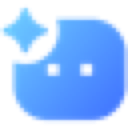
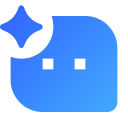
chore: 准备 1.0.0 上架
- 更换插件图标
- 插件名追加功能描述（AI Chat TOC - AI 对话目录导航）
- 版本号 1.9 → 1.0.0
- 描述精简至 108 字符（Web Store 上限 132）
- 清理生产 console.log

diff --git a/content.js b/content.js
@@ -66,7 +66,6 @@ function init() {
       setupClaude();
     }
     watchClaudeRoute();
-    console.log('[AI Chat TOC] Loaded. Platform: claude (route-aware)');
     return;
   }
 
@@ -75,7 +74,6 @@ function init() {
     createContainer();
     startObserving();
   }, 1000);
-  console.log('[AI Chat TOC] Loaded. Platform:', currentPlatform);
 }
 
 // Claude 初始化（创建容器 + 启动监听），幂等：容器已存在则跳过
@@ -250,7 +248,6 @@ function createContainer() {
   };
 
   list.addEventListener('wheel', preventWheelBubble, { passive: true });
-  console.log('[AI Chat TOC] Wheel event listeners added');
 }
 
 // 开始监听 DOM 变化
@@ -1271,9 +1268,6 @@ function highlightActive(activeDiv) {
 
 // 导出为图片 - 使用 html2canvas
 function exportToImage(selectedIndices, conversationGroups) {
-  console.log('[AI Chat TOC] exportToImage called', { selectedIndices, conversationCount: conversationGroups.length });
-  console.log('[AI Chat TOC] html2canvas available:', !!window.html2canvas, 'typeof:', typeof html2canvas);
-
   // 检查 html2canvas 是否可用 - 同时检查 window.html2canvas 和全局 html2canvas
   const html2canvasLib = window.html2canvas || (typeof html2canvas !== 'undefined' ? html2canvas : null);
 